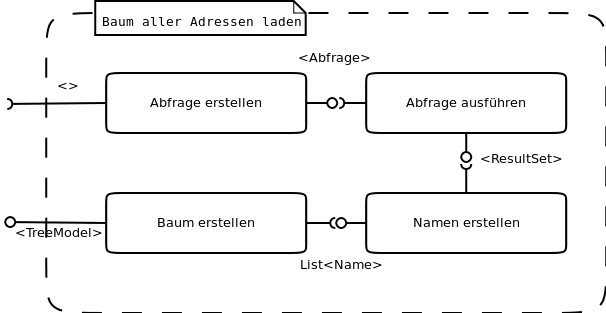
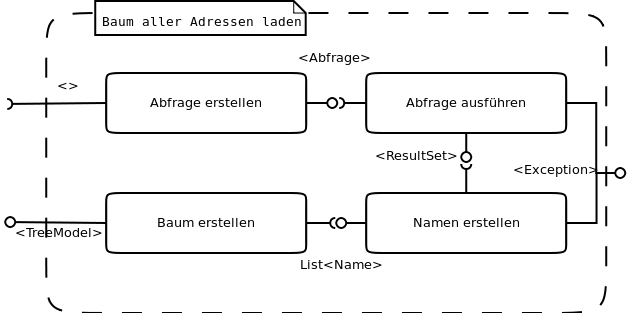
BaumAllerAdressesLaden coded and tested added Exceptions to diagram

diff --git a/test/de/jebc/adressbook/activities/baumladen/TestBaumAllerAdressenLaden.java b/test/de/jebc/adressbook/activities/baumladen/TestBaumAllerAdressenLaden.java
@@ -1,0 +1,91 @@
+package de.jebc.adressbook.activities.baumladen;
+
+import static org.junit.Assert.*;
+
+import java.sql.Connection;
+import java.sql.DriverManager;
+import java.sql.Statement;
+
+import javax.swing.tree.TreeModel;
+import javax.swing.tree.TreeNode;
+
+import org.junit.Test;
+
+import de.jebc.adressbook.activities.StoringPinsTestclass;
+
+public class TestBaumAllerAdressenLaden extends StoringPinsTestclass<TreeModel> {
+
+    @Test
+    public void testBaumLaden() throws Exception {
+
+        Connection conn = setupDatabase();
+        BaumAllerAdressenLaden sut = new BaumAllerAdressenLaden(conn);
+        storeResultPin(sut.Result());
+
+        sut.Start().receive(null);
+
+        assertNotNull(result);
+        TreeNode root = (TreeNode) result.getRoot();
+        assertEquals(1, result.getChildCount(root));
+        TreeNode child = (TreeNode) result.getChild(root, 0);
+        assertEquals(1, child.getChildCount());
+    }
+
+    @Test
+    public void testExceptionInQuery() throws Exception {
+
+        Connection conn = setupDatabaseWithErrorCausingQueryToFail();
+        BaumAllerAdressenLaden sut = new BaumAllerAdressenLaden(conn);
+        storeExceptionPin(sut.Exception());
+
+        sut.Start().receive(null);
+
+        assertNotNull(exception);
+        assertNull(result);
+    }
+
+    @Test
+    public void testExceptionInResultset() throws Exception {
+
+        Connection conn = setupDatabaseWithErrorCausingResultsetToFail();
+        BaumAllerAdressenLaden sut = new BaumAllerAdressenLaden(conn);
+        storeExceptionPin(sut.Exception());
+
+        sut.Start().receive(null);
+
+        assertNotNull(exception);
+        assertNull(result);
+    }
+
+    private Connection setupDatabase() throws Exception {
+        Class.forName("org.sqlite.JDBC");
+        final Connection conn = DriverManager
+                .getConnection("jdbc:sqlite::memory:");
+        Statement stmt = conn.createStatement();
+        stmt.executeUpdate("CREATE TABLE Adressen (ID INTEGER, Name TEXT, Vorname TEXT, Anschrift TEXT, Telefon TEXT, Kategorie TEXT);");
+        stmt.executeUpdate("INSERT INTO Adressen VALUES (1, 'Name', 'Vorname', 'Anschrift', 'Telefon', 'Privat')");
+        return conn;
+    }
+
+    private Connection setupDatabaseWithErrorCausingQueryToFail()
+            throws Exception {
+        Class.forName("org.sqlite.JDBC");
+        final Connection conn = DriverManager
+                .getConnection("jdbc:sqlite::memory:");
+        Statement stmt = conn.createStatement();
+        stmt.executeUpdate("CREATE TABLE WrongTableName (ID INTEGER, Name TEXT, Vorname TEXT, Anschrift TEXT, Telefon TEXT, Kategorie TEXT);");
+        stmt.executeUpdate("INSERT INTO WrongTableName VALUES (1, 'Name', 'Vorname', 'Anschrift', 'Telefon', 'Privat')");
+        return conn;
+    }
+
+    private Connection setupDatabaseWithErrorCausingResultsetToFail()
+            throws Exception {
+        Class.forName("org.sqlite.JDBC");
+        final Connection conn = DriverManager
+                .getConnection("jdbc:sqlite::memory:");
+        Statement stmt = conn.createStatement();
+        stmt.executeUpdate("CREATE TABLE Adressen (ID INTEGER, Name TEXT, Vorname TEXT, Anschrift TEXT, Telefon TEXT);");
+        stmt.executeUpdate("INSERT INTO Adressen VALUES (1, 'Name', 'Vorname', 'Anschrift', 'Telefon')");
+        return conn;
+    }
+}

diff --git a/src/de/jebc/adressbook/activities/baumladen/BaumAllerAdressenLaden.java b/src/de/jebc/adressbook/activities/baumladen/BaumAllerAdressenLaden.java
@@ -1,0 +1,49 @@
+package de.jebc.adressbook.activities.baumladen;
+
+import java.sql.Connection;
+
+import javax.swing.tree.TreeModel;
+
+import de.jebc.BoardWithException;
+import de.jebc.InPin;
+import de.jebc.OutPin;
+import de.jebc.adressbook.data.DatenbankabfrageAusfuehren;
+
+public class BaumAllerAdressenLaden extends BoardWithException {
+
+    private final Connection conn;
+    private AbfrageErstellen abfrageErstellen;
+    private DatenbankabfrageAusfuehren abfrageAusfuehren;
+    private NamenErstellen namenErstellen;
+    private BaumErstellen baumErstellen;
+
+    public BaumAllerAdressenLaden(Connection conn) {
+        this.conn = conn;
+        createParts();
+        wire();
+    }
+
+    public InPin<Void> Start() {
+        return abfrageErstellen.Start();
+    }
+
+    public OutPin<TreeModel> Result() {
+        return baumErstellen.Result();
+    }
+
+    private void createParts() {
+        abfrageErstellen = new AbfrageErstellen();
+        abfrageAusfuehren = new DatenbankabfrageAusfuehren(conn);
+        namenErstellen = new NamenErstellen();
+        baumErstellen = new BaumErstellen();
+    }
+
+    private void wire() {
+        wire(abfrageErstellen.Result(), abfrageAusfuehren.Start());
+        wire(abfrageAusfuehren.Result(), namenErstellen.Start());
+        wire(namenErstellen.Result(), baumErstellen.Start());
+
+        handle(abfrageAusfuehren.Exception());
+        handle(namenErstellen.Exception());
+    }
+}

diff --git a/src/de/jebc/adressbook/activities/baumladen/NamenErstellen.java b/src/de/jebc/adressbook/activities/baumladen/NamenErstellen.java
@@ -16,8 +16,10 @@ public class NamenErstellen extends ProcessWithException<ResultSet, List<Name>> 
         List<Name> result = new ArrayList<Name>();
         try {
             while (message.next()) {
-                Name name = new Name(new Schluessel(message.getInt("ID")), "",
-                        "");
+                Name name = new Name(new Schluessel(message.getInt("ID")),
+                        String.format("%1$s, %2$s", message.getString("Name"),
+                                message.getString("Vorname")),
+                        message.getString("Kategorie"));
                 result.add(name);
             }
             Result().send(result);

diff --git a/test/de/jebc/adressbook/activities/baumladen/TestNamenErstellen.java b/test/de/jebc/adressbook/activities/baumladen/TestNamenErstellen.java
@@ -28,6 +28,7 @@ public class TestNamenErstellen extends StoringPinsTestclass<List<Name>> {
 
         assertNotNull(result);
         assertEquals(2, result.size());
+        assertEquals("Name, Vorname", result.get(0).getName());
     }
 
     @Test
